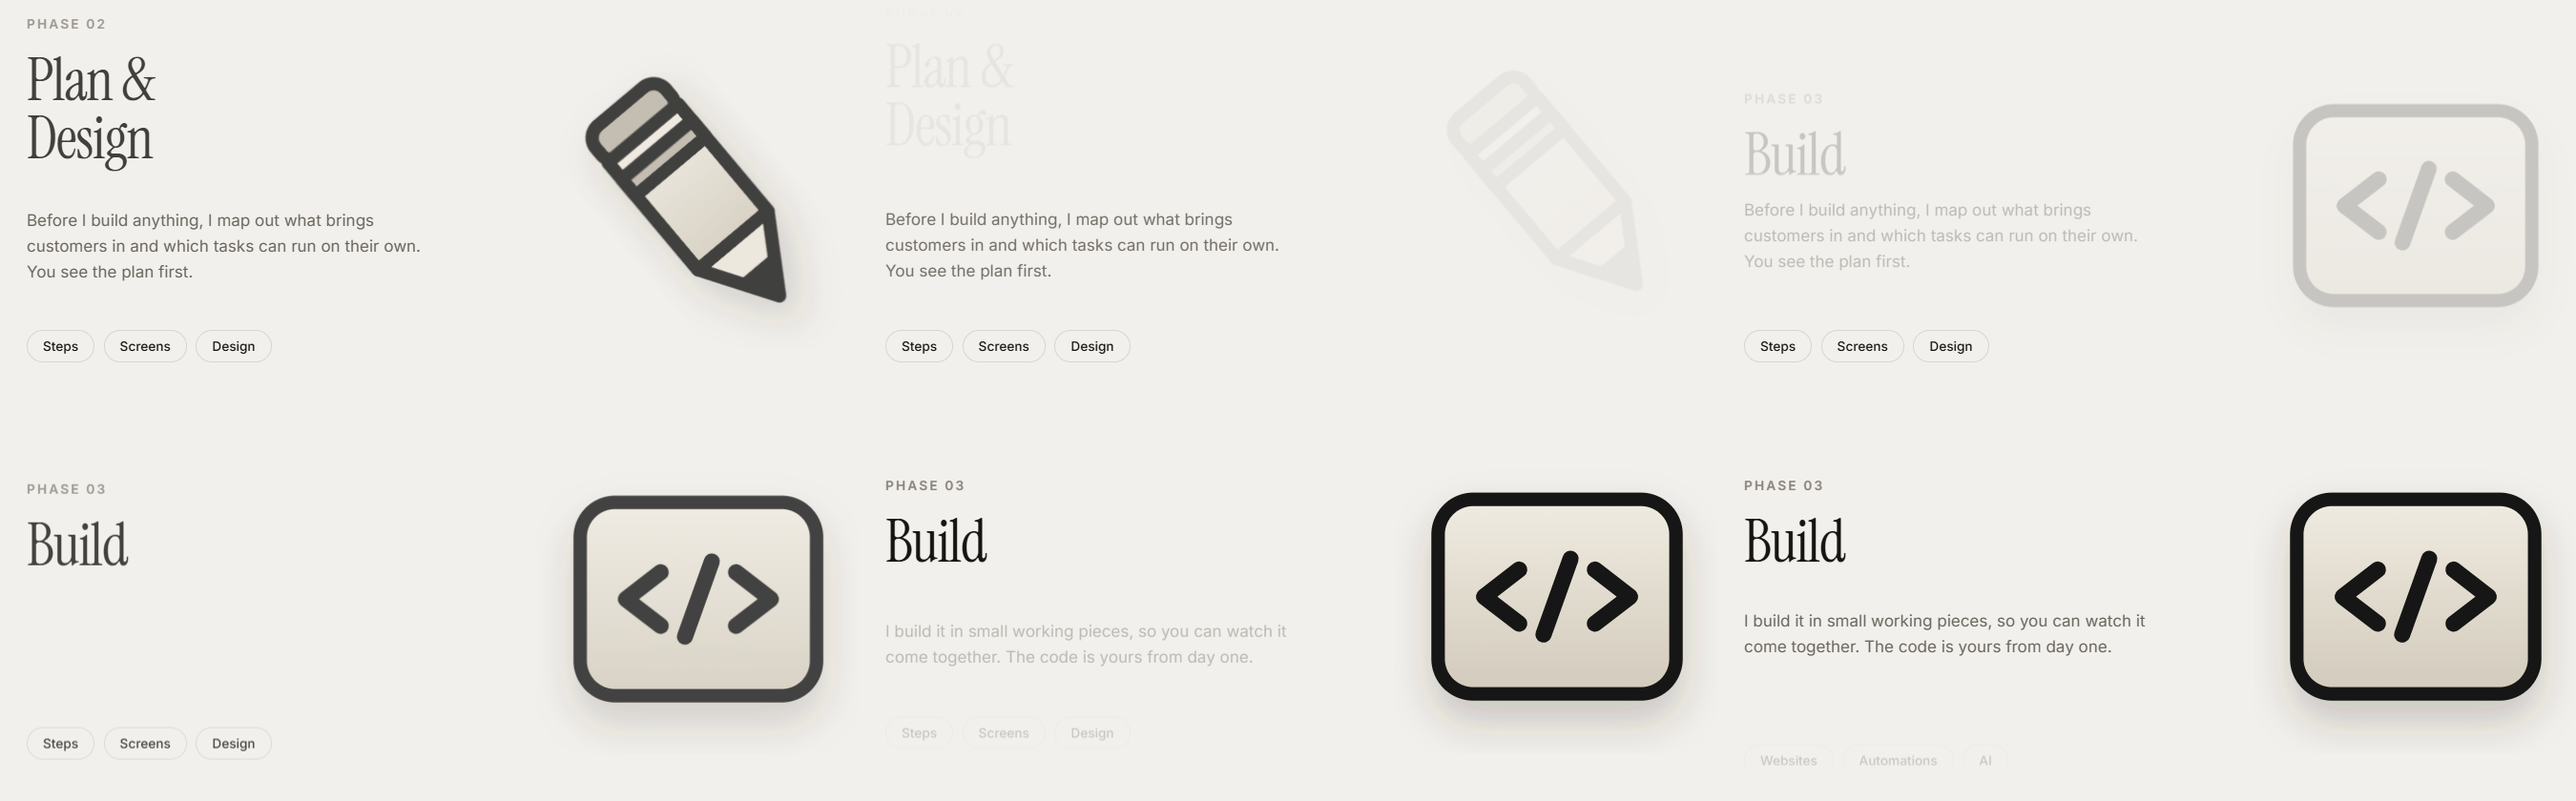
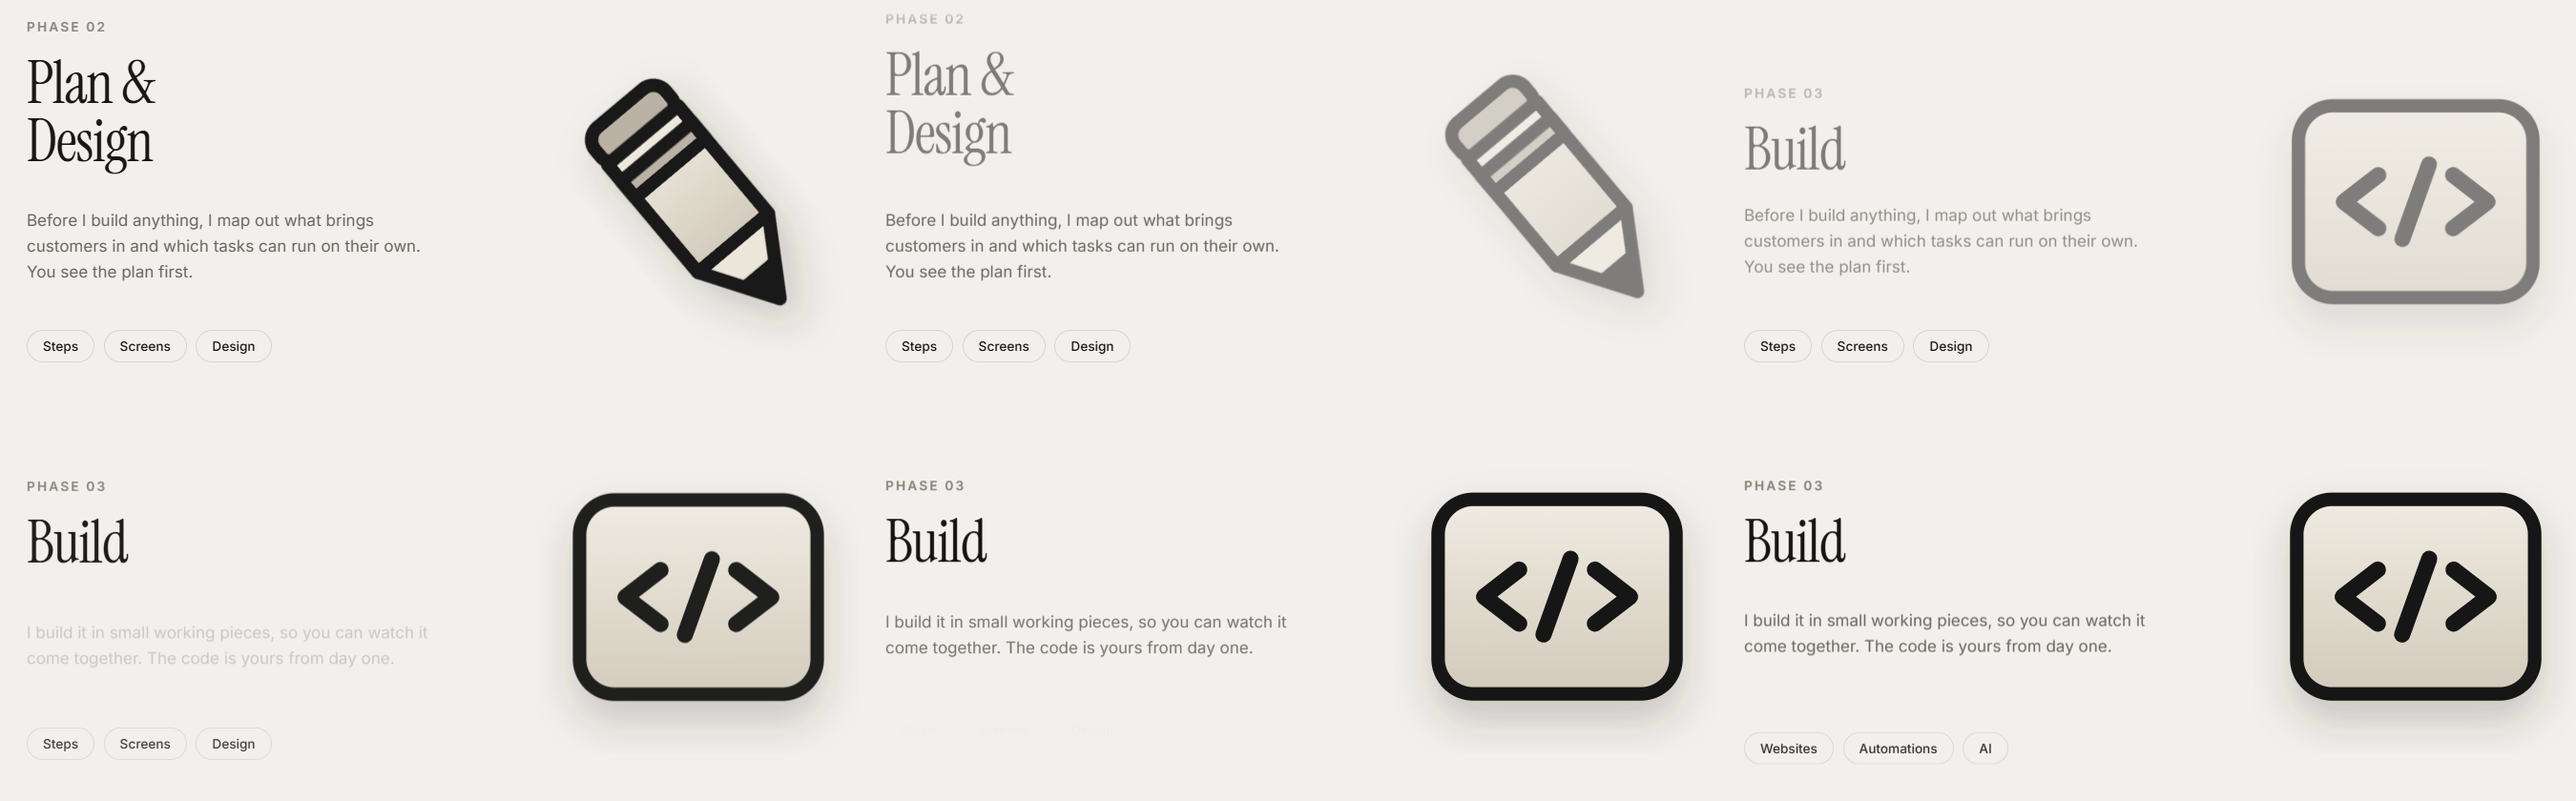
Process: ease-in exits / ease-out entrances (no dip at handoff), settle completes in travel direction

diff --git a/research/process-transition/score-kimi-r2.md b/research/process-transition/score-kimi-r2.md
@@ -1,0 +1,23 @@
+# Process transition score — kimi, round 2
+
+Scored from `Process.astro` (current) plus `film-fast-30fps.png`, `film-slow-8fps.png`, `film-phone-24fps.png`, `midframes-desktop.png`.
+
+| Axis | Score | Note |
+|---|---|---|
+| Continuity | 8.5/10 | Feathered 14px masks fixed the slicing — parts now dissolve at slot edges. 0 overlap / 0 blank holds. But the handoff is *sequential* per slot (old fades [c-w,c], new fades [c,c+w]), so every slot passes through ~0 at its centre c. Visible as the near-empty title/icon moment below. |
+| Motion quality & easing | 8.5/10 | Spring follow, 18px travel (down from 30) and the dissolve read as one calm gesture; icon scale 0.97→1 settle is a nice landing cue. |
+| Timing | 8/10 | Fast flick resolves in ~12 frames @30fps; slow nudges track 1:1. Unchanged from R1: the 0.40→0.60 wave spread still makes a full handoff feel long on slow scrolls. |
+| Legibility while moving | 7/10 | Title + icon both bottom out near 42–44% (see defects); ghosted paragraph at 50% is mush; tags alone can't carry reading mid-handoff. |
+| Landing & settle | 9/10 | Direction-aware re-aim inside 0.2–0.8 only; all strips park cleanly on a phase. |
+| Brand fit | 9/10 | Calm, editorial, ink-on-cream; the dissolve suits it better than the R1 hard clip did. |
+
+**Overall: 8.5/10** (was 8.0). Icon-lag defect from R1 is genuinely fixed — pen and title now leave together in every strip.
+
+## Defects visible in the frames
+1. **Title-and-icon dip at ~42–44%.** With `SLOTS[0] = ART = [0.40, 0.14]`, at u≈0.42 the old title is gone and the new one is at ~5% opacity (midframes cells 2–3: ghost "Plan &", empty title slot, no icon). Not a measured blank — tags are at 100% — but the two *anchor* elements vanish together, so the stage visibly deflates mid-handoff.
+2. **Ghost text at 50%.** Midframes cell 4 shows the old paragraph as a low-opacity double-image under the incoming one; reads as smudge, not motion.
+3. **Sparse stage on hard flicks persists,** milder than R1: fast strip row 2 has frames of faint title + faint icon + tags only.
+4. **Mixed-phase screen by design** (new "Build" title beside old "Steps / Screens / Design" tags, fast strip row 2). Per-slot purity holds; per-screen coherence still doesn't.
+
+## Single change most likely to raise the score
+Make each slot a constant-sum crossfade instead of sequential out-then-in: in `vis()`, change `inn` from `smooth(c - 1, c - 1 + w, u)` to `smooth(c - 1 - w, c - 1, u)`. Old then fades 1→0 over [c-w, c] while new fades 0→1 over the *same* window, so opacities sum to 1 at every u — the dip at c disappears, defects 1–3 all shrink, and it's a one-line change. Cost: two phases briefly co-occupy a slot at ≤50% opacity each (the R1 "overlap" metric would trip); with 18px opposite travel plus the feathered mask that reads as a roll-through, not a collision.

diff --git a/research/process-transition/SCORE-BRIEF-R3.md b/research/process-transition/SCORE-BRIEF-R3.md
@@ -1,0 +1,40 @@
+# Round 3: final score (strict, honest, within the owner's rules)
+
+Your round-2 scores: Gemini 7.8, Kimi 8.5. Both of you recommended an in-slot crossfade, where old and new text share a slot at partial opacity.
+
+## The owner's rules
+The owner has explicitly rejected two things, so they are off the table:
+- **Two phases' text visible in the same place at the same time.** The first version did this and the owner called it "overlaps, doesn't look good".
+- **Blur.**
+
+Score within those rules.
+
+## What changed since round 2
+The dip you both flagged is addressed.
+- **Easing.** Exits now ease in (cubic: they accelerate away) and entrances ease out (cubic: they decelerate in). Before, both used smoothstep.
+- **Result:** a slot is below 10% opacity for about 1% of a step, down from 5.5%. The stage's most visible part never drops below 91%, down from 80%.
+- **Fades.** The fade window is 0.18 of a step, up from 0.14, so fades are softer.
+- **Icon.** It changes together with the title.
+- **Settling** now completes small leftovers in the direction of travel. A nudge under 20% of a step is left alone.
+- **Edge tests:**
+  - scrolling past either end of the section exits freely;
+  - fast, slow, reverse and phone scrolling give 0 overlap frames and 0 blank frames;
+  - reduced motion is opacity only;
+  - with no JavaScript, everything is visible.
+
+## What to look at
+Refreshed images are in `D:/Vibe-coding/ZAID-WEBSITE/research/process-transition/`:
+- `midframes-desktop.png`: static states at 26%, 36%, 44%, 52%, 60% and 70% through one handoff;
+- `film-fast-30fps.png`;
+- `film-slow-8fps.png`;
+- `film-phone-24fps.png`.
+
+The code is `D:/Vibe-coding/ZAID-WEBSITE/src/components/Process.astro`.
+
+## What to write
+1. Scores out of 10 on the same six axes as before.
+2. An overall score.
+3. Any remaining defect you can actually see.
+4. The single best change that stays inside the owner's rules, or "none" if you can't find one.
+
+Keep it under 25 lines. Do not edit source files.

diff --git a/research/process-transition/score-gemini-r2.md b/research/process-transition/score-gemini-r2.md
@@ -1,0 +1,19 @@
+# Phase Transition R2 Score
+
+**1. Category Scores (out of 10):**
+- **Continuity: 6/10** – The strict "0 overlap" rule forces each slot to drop to 0% opacity at handoff, creating a jarring, blinking interruption per slot.
+- **Motion quality & easing: 8/10** – The critically damped spring is fantastic, but the `smooth` easing curve has a zero-derivative at the ends, making the blank slot "dwell" and feel visually dead.
+- **Timing: 7/10** – The wave separation `[0.40, 0.50, 0.60]` is great, but the `0.14` fade window feels disjointed without a crossfade.
+- **Legibility while it moves: 8/10** – The 14px feathered masks elegantly dissolve text without harsh slices, but the 0% opacity dip breaks the reading flow.
+- **Landing and settle: 9/10** – The detent ping and Lenis re-aiming to prevent resting in mid-states are superb.
+- **Brand fit: 9/10** – The duotone puffy 3D SVGs and B&W on cream nail the calm, editorial vibe.
+
+**2. Overall Score:** 7.8/10
+
+**3. Defect visible in the frames:**
+In `midframes-desktop.png` (frames 3-5), the slots blink empty. The outgoing text vanishes completely before the incoming text starts to appear. Because the `smooth` curve flattens at the handoff point, the slot visibly "hangs" at 0% opacity, destroying the fluidity of the transition.
+
+**4. Single change most likely to raise the score:**
+Abandon the "0 overlap frames" constraint in favor of a smooth crossfade so a slot's visual weight never drops to zero. In `vis()`, align the `inn` window with the `out` window:
+Change: `const inn = i === 0 ? 1 : smooth(c - 1, c - 1 + w, u);`
+To: `const inn = i === 0 ? 1 : smooth(c - 1 - w, c - 1, u);`
